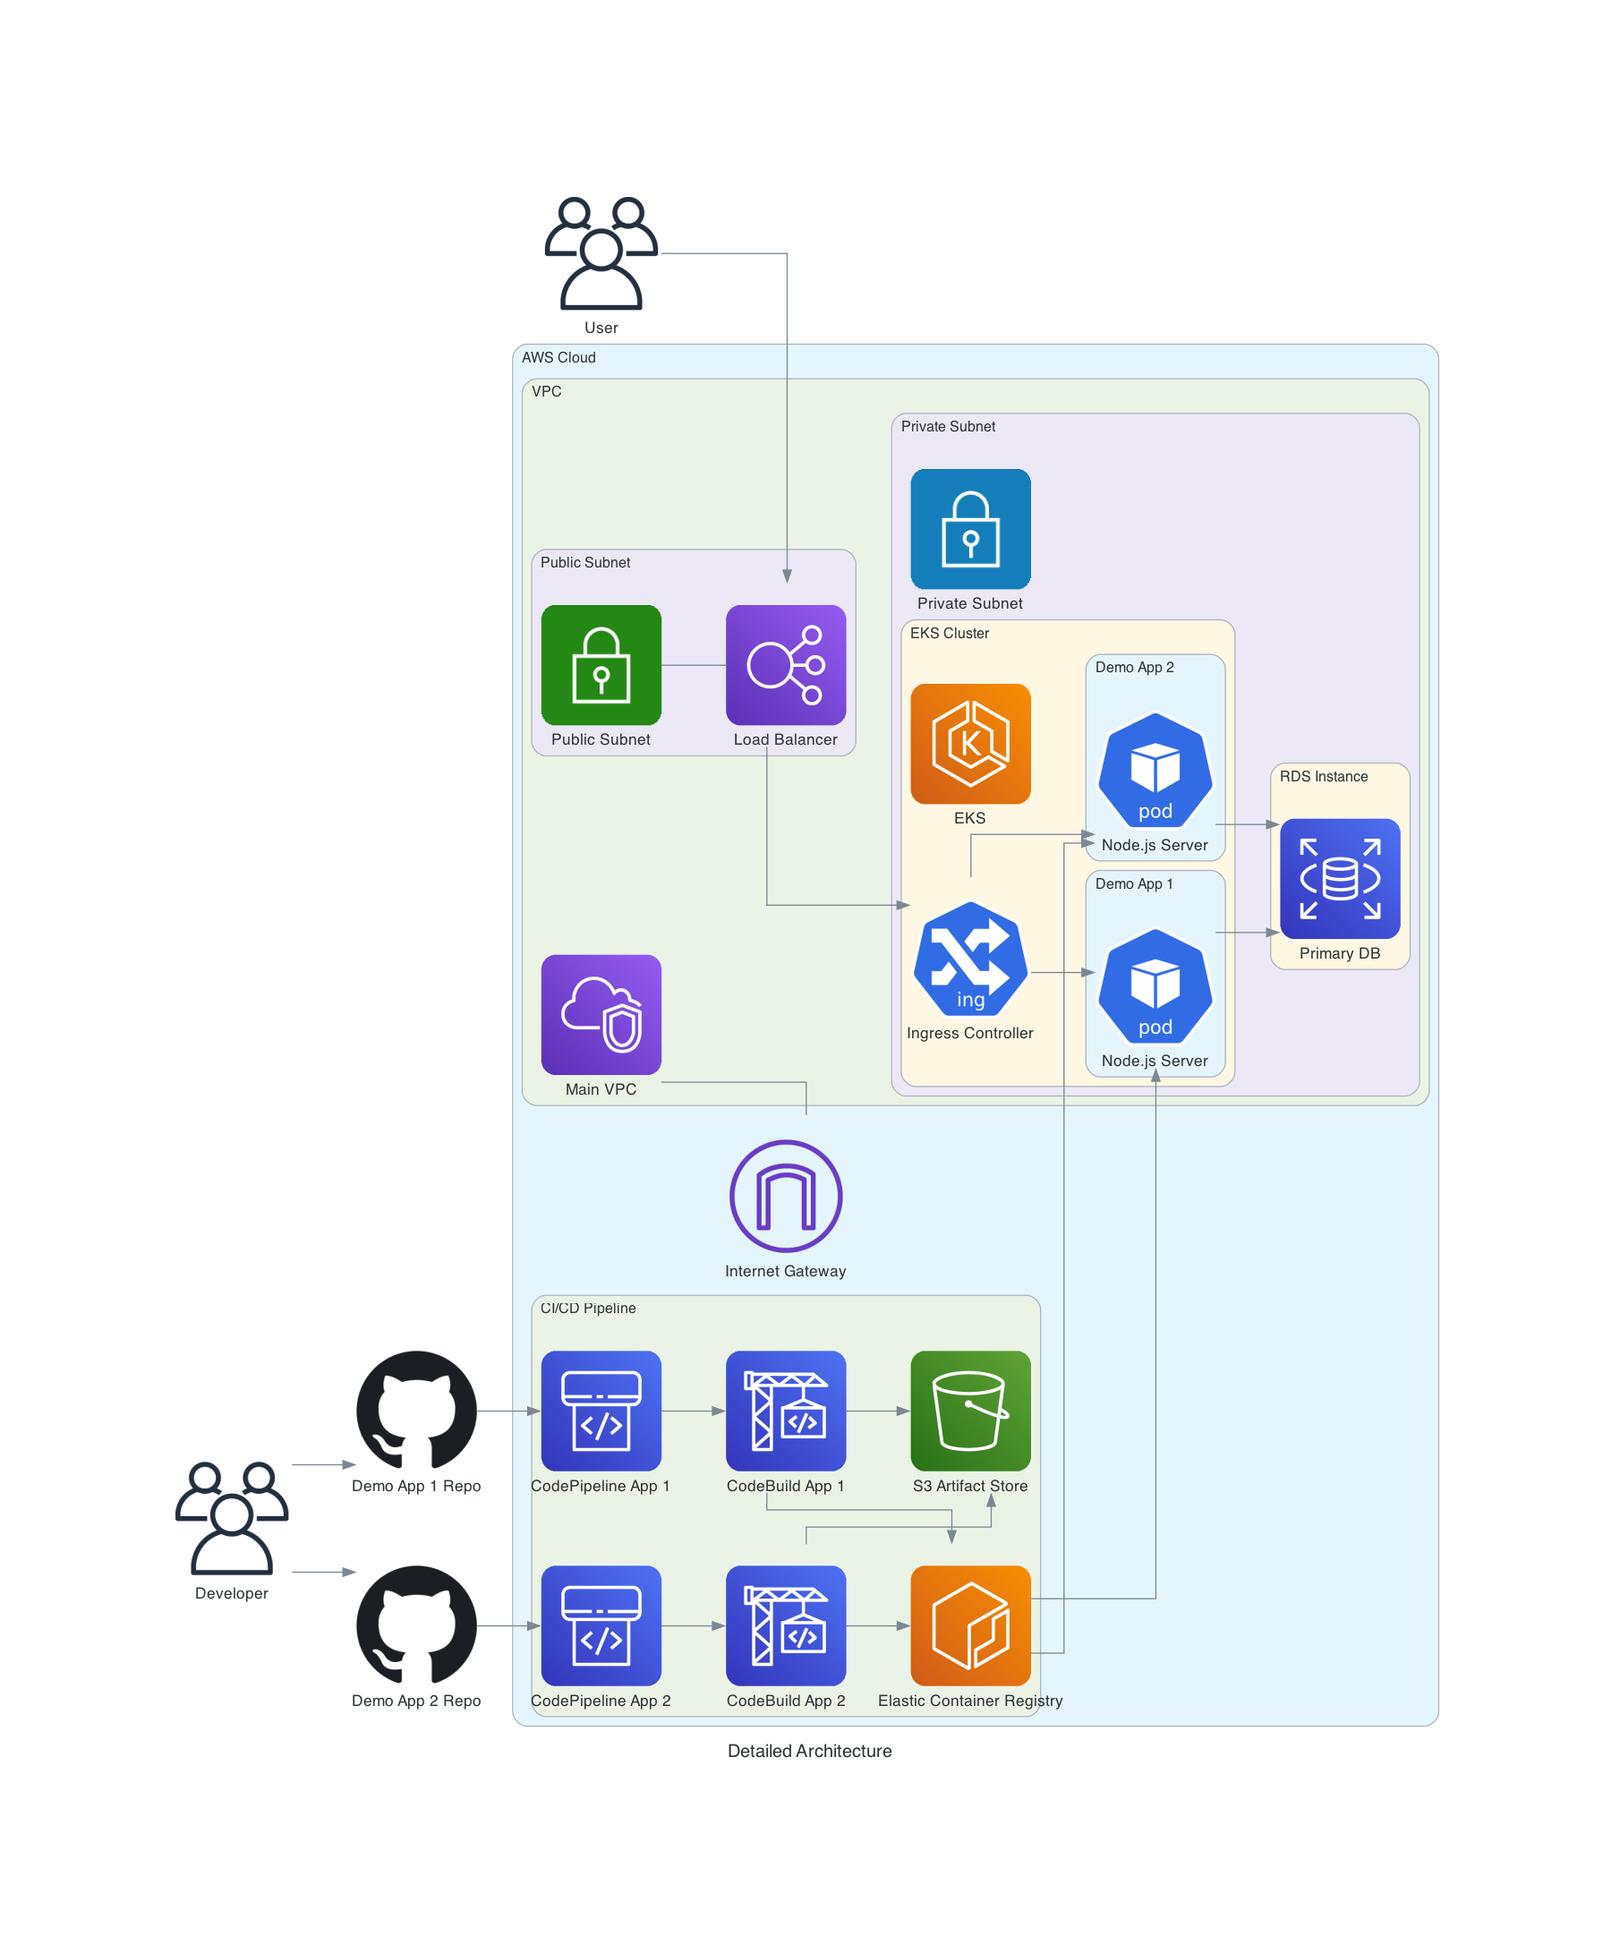
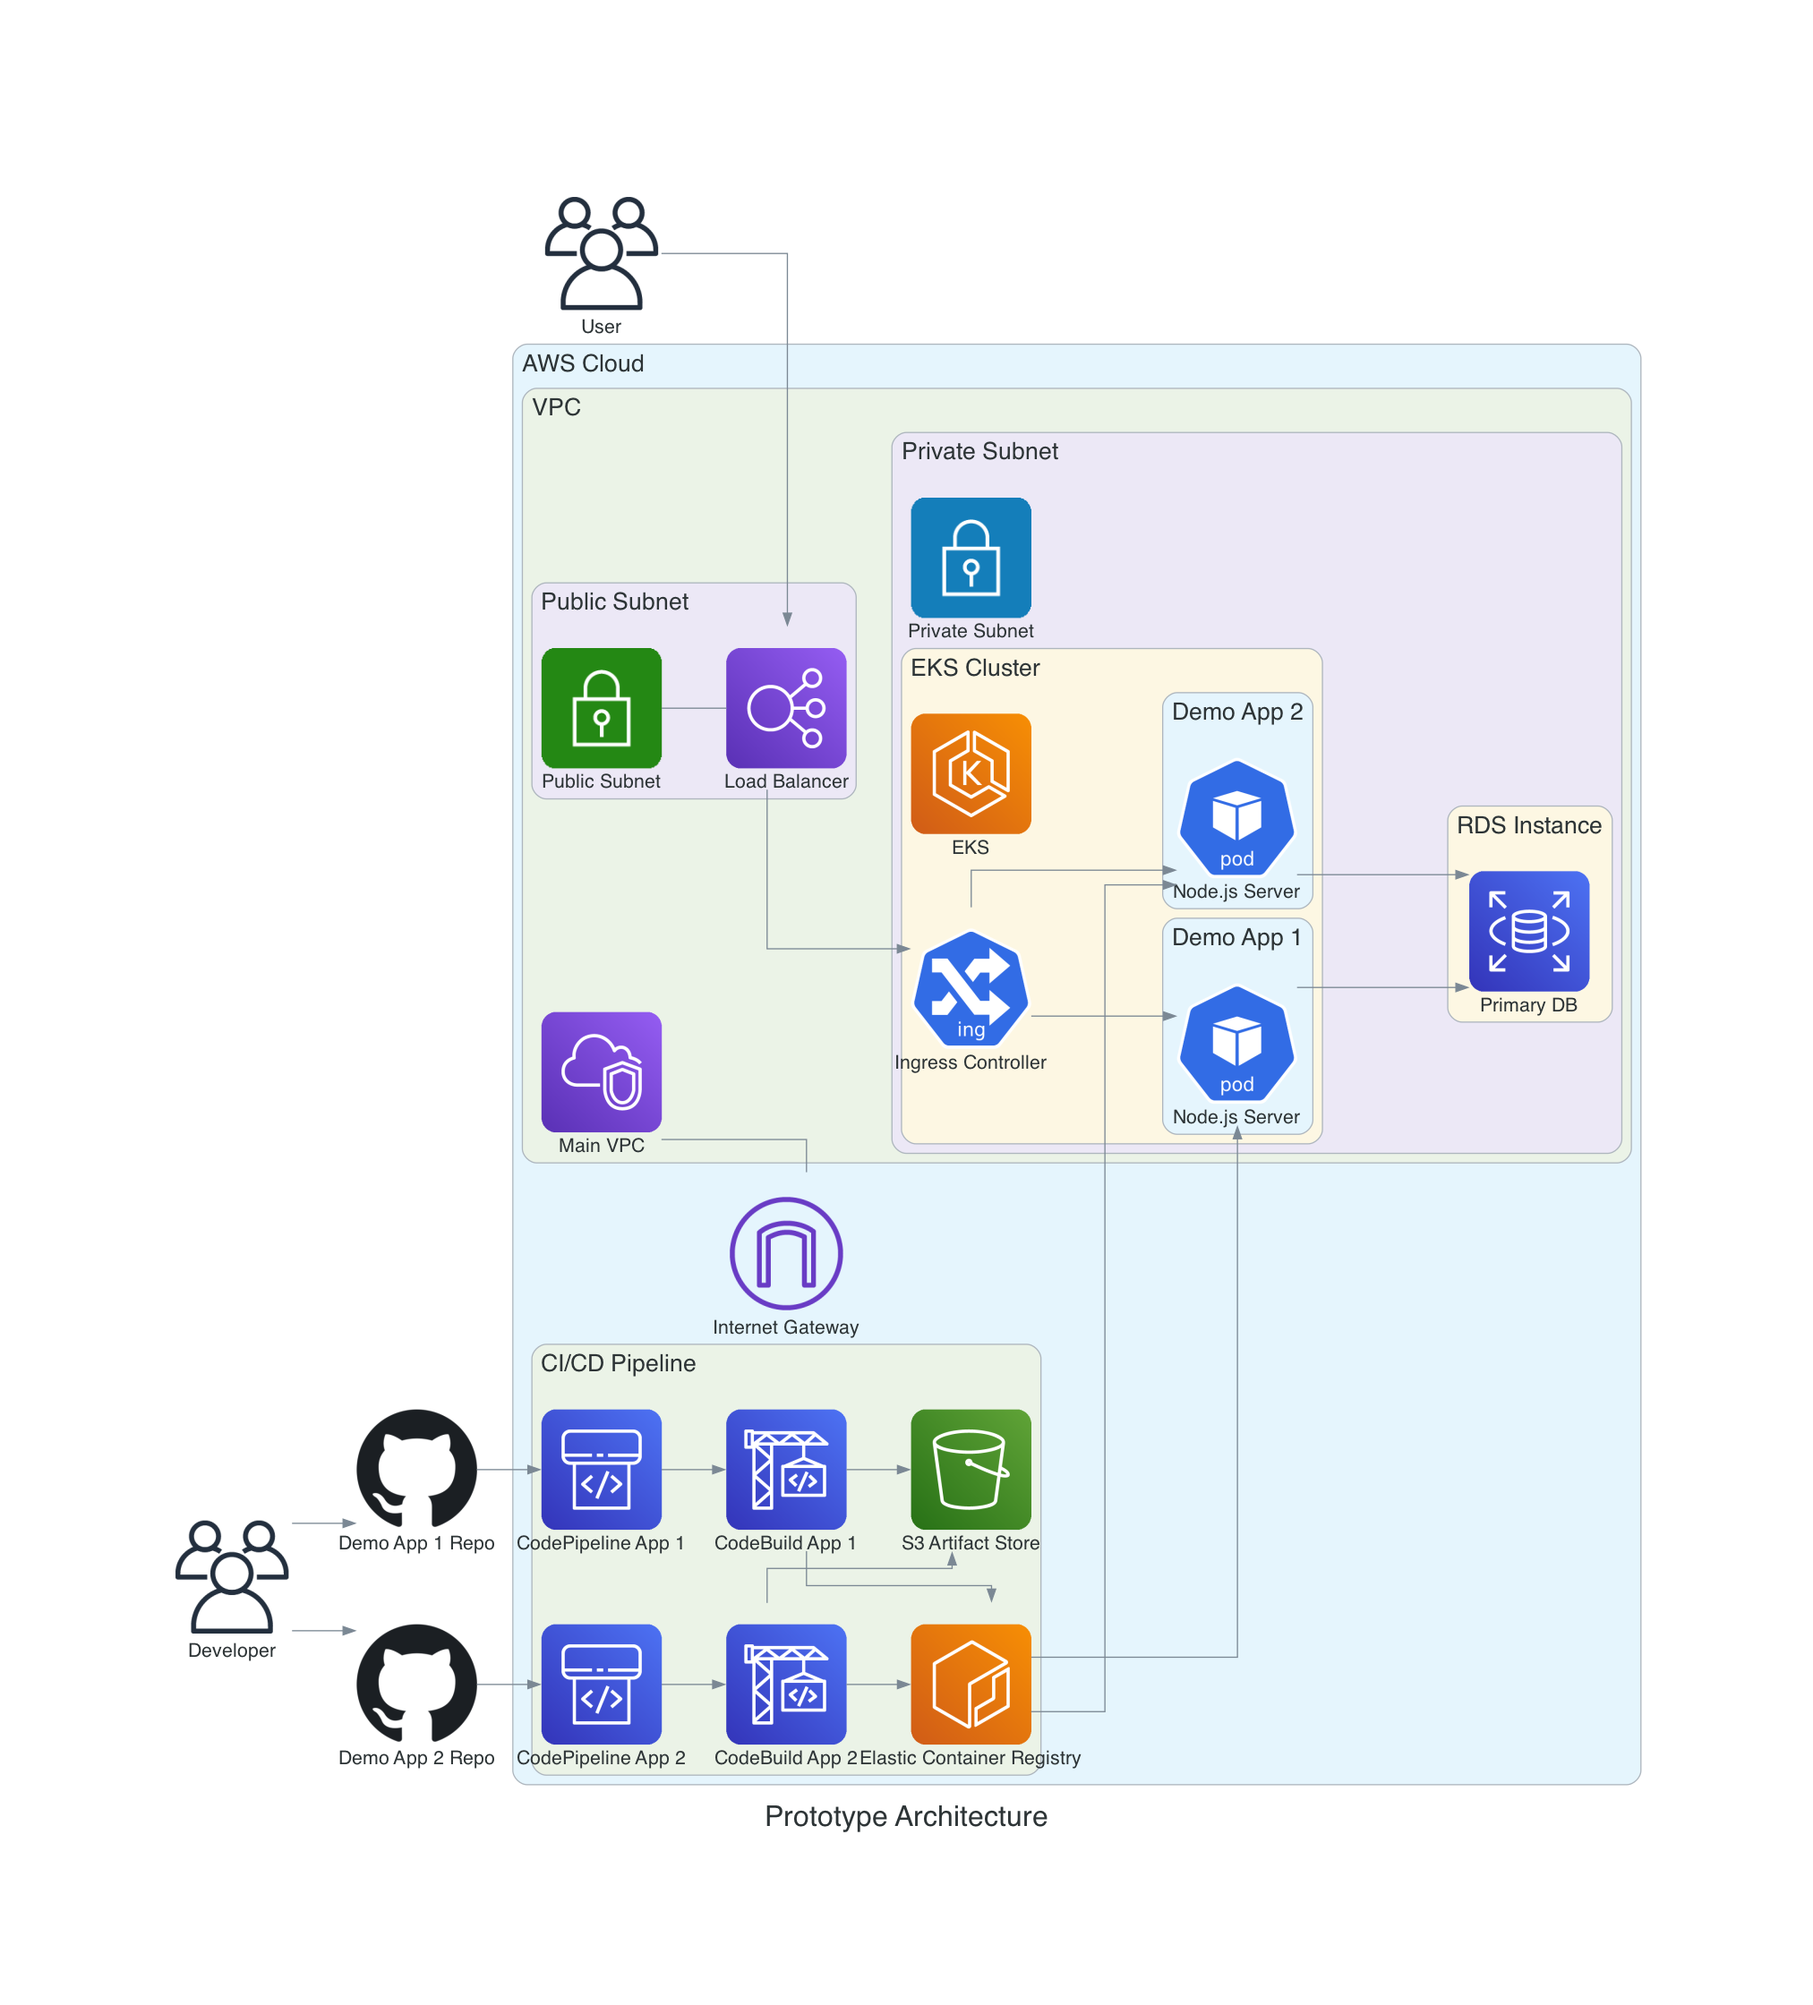
increase font size

Changed region(s): [[0.0928, 0.0929, 0.9282, 0.9293]]

diff --git a/tp_architecture.py b/tp_architecture.py
@@ -10,35 +10,47 @@ from diagrams.k8s.network import Ingress
 from diagrams.onprem.client import Users
 from diagrams.onprem.vcs import Github
 
-with Diagram("Prototype Architecture", show=False, direction="LR"):
+graph_attr = {
+    "fontsize": "24"
+}
+
+node_attr = {
+    "fontsize": "16"
+}
+
+cluster_attr = {
+    "fontsize": "20"
+}
+
+with Diagram("Prototype Architecture", show=False, direction="LR", graph_attr=graph_attr, node_attr=node_attr):
     user = Users("User")
     developer = Users("Developer")
 
-    with Cluster("AWS Cloud"):
+    with Cluster("AWS Cloud", graph_attr=cluster_attr):
         igw = InternetGateway("Internet Gateway")
 
-        with Cluster("VPC"):
+        with Cluster("VPC", graph_attr=cluster_attr):
             vpc = VPC("Main VPC")
 
-            with Cluster("Public Subnet"):
+            with Cluster("Public Subnet", graph_attr=cluster_attr):
                 public_subnet = PublicSubnet("Public Subnet")
                 lb = ELB("Load Balancer")
                 public_subnet - lb
 
-            with Cluster("Private Subnet"):
+            with Cluster("Private Subnet", graph_attr=cluster_attr):
                 private_subnet = PrivateSubnet("Private Subnet")
 
-                with Cluster("EKS Cluster"):
+                with Cluster("EKS Cluster", graph_attr=cluster_attr):
                     eks = ElasticKubernetesService("EKS")
                     ingress = Ingress("Ingress Controller")
 
-                    with Cluster("Demo App 1"):
+                    with Cluster("Demo App 1", graph_attr=cluster_attr):
                         backend1 = Pod("Node.js Server")
 
-                    with Cluster("Demo App 2"):
+                    with Cluster("Demo App 2", graph_attr=cluster_attr):
                         backend2 = Pod("Node.js Server")
 
-                with Cluster("RDS Instance"):
+                with Cluster("RDS Instance", graph_attr=cluster_attr):
                     db_primary = RDS("Primary DB")
 
                 lb >> ingress >> [backend1, backend2]
@@ -48,7 +60,7 @@ with Diagram("Prototype Architecture", show=False, direction="LR"):
         user >> lb
         vpc - igw
 
-        with Cluster("CI/CD Pipeline"):
+        with Cluster("CI/CD Pipeline", graph_attr=cluster_attr):
             code_pipeline_1 = Codepipeline("CodePipeline App 1")
             code_build_1 = Codebuild("CodeBuild App 1")
             code_pipeline_2 = Codepipeline("CodePipeline App 2")
